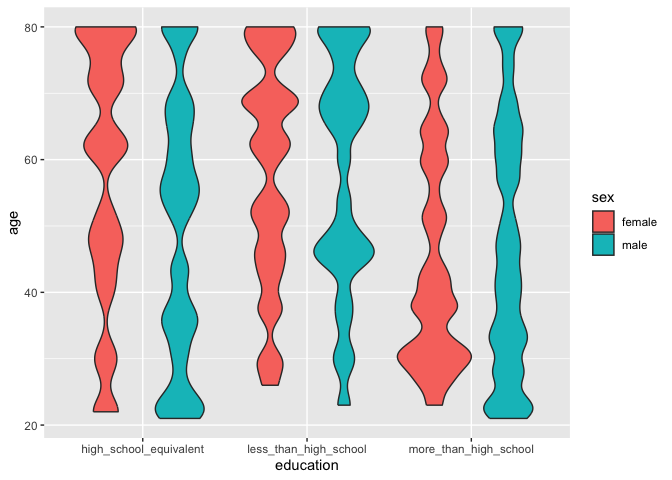
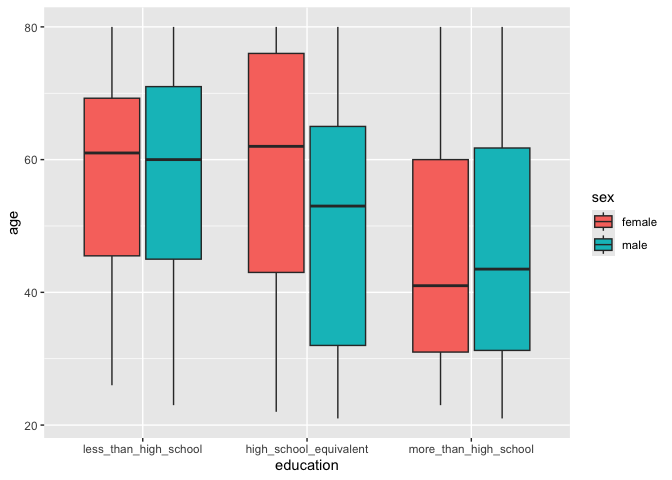
Aggregate minutes for daily activity for each participant

diff --git a/p8105_fp2513_hw3.md b/p8105_fp2513_hw3.md
@@ -311,17 +311,52 @@ Sex_Edu_df %>%
 ``` r
 Demo_Acc_Join_df %>% 
   group_by(education, sex) %>% 
-  ggplot(aes(x = education, y = age)) +
-  geom_violin(aes(fill = sex)) 
-```
-
-![](p8105_fp2513_hw3_files/figure-gfm/unnamed-chunk-14-1.png)<!-- -->
-
-``` r
-Demo_Acc_Join_df %>% 
-  group_by(education, sex) %>% 
+  mutate(
+    education = factor(education, levels = c("less_than_high_school", "high_school_equivalent", "more_than_high_school"))
+  ) %>% 
   ggplot(aes(x = education, y = age, fill = sex)) +
   geom_boxplot()
 ```
 
-![](p8105_fp2513_hw3_files/figure-gfm/unnamed-chunk-15-1.png)<!-- -->
+![](p8105_fp2513_hw3_files/figure-gfm/unnamed-chunk-14-1.png)<!-- -->
+
+In general there are a significantly greater number of participants in
+this study that have a ‘more than high school’ education level (~ 80000
+for both females and males, whereas the other two education levels hover
+around the 40000 mark). The number of females and males are relatively
+similar for those categorised in ‘more tan high school’ and ‘less than
+high school’ education level. There are however more males (~ 50000)
+than females (~ 35000) which are high school students in this study.
+Overall, there are more males than females in this study.
+
+In the ‘more than high school’ and ‘less than high school’ education
+levels the age distribution for the males and females are similar within
+their respective education levels. They share similar ranges, similar
+interquartile ranges and medians. In the ‘high school equivalent’
+education level the females have a older age distribution, with a high
+median around 60, compared to the males at 50. While the interquartile
+ranges still overlap, the females are pulled older from ~45 to ~75 years
+old, where the males interquartile range covers ~30 to ~65 years old.
+
+Those males and females of the ‘more than high school’ education level
+have a younger age distribution (indicated by the median around 40 years
+old) than those from a ‘less than high school’ (60) or ‘high school
+equivalent’ (~55-60) education level.
+
+**Traditional analyses of accelerometer data focus on the total activity
+over the day. Using your tidied dataset, aggregate across minutes to
+create a total activity variable for each participant. Plot these total
+activities (y-axis) against age (x-axis); your plot should compare men
+to women and have separate panels for each education level. Include a
+trend line or a smooth to illustrate differences. Comment on your
+plot.**
+
+``` r
+Daily_act_df = 
+  Demo_Acc_Join_df %>% 
+  group_by(seqn) %>% 
+  mutate(
+    daily_activity = 
+      sum(MIMS_values, na.rm = TRUE)) %>% 
+  ungroup()
+```
